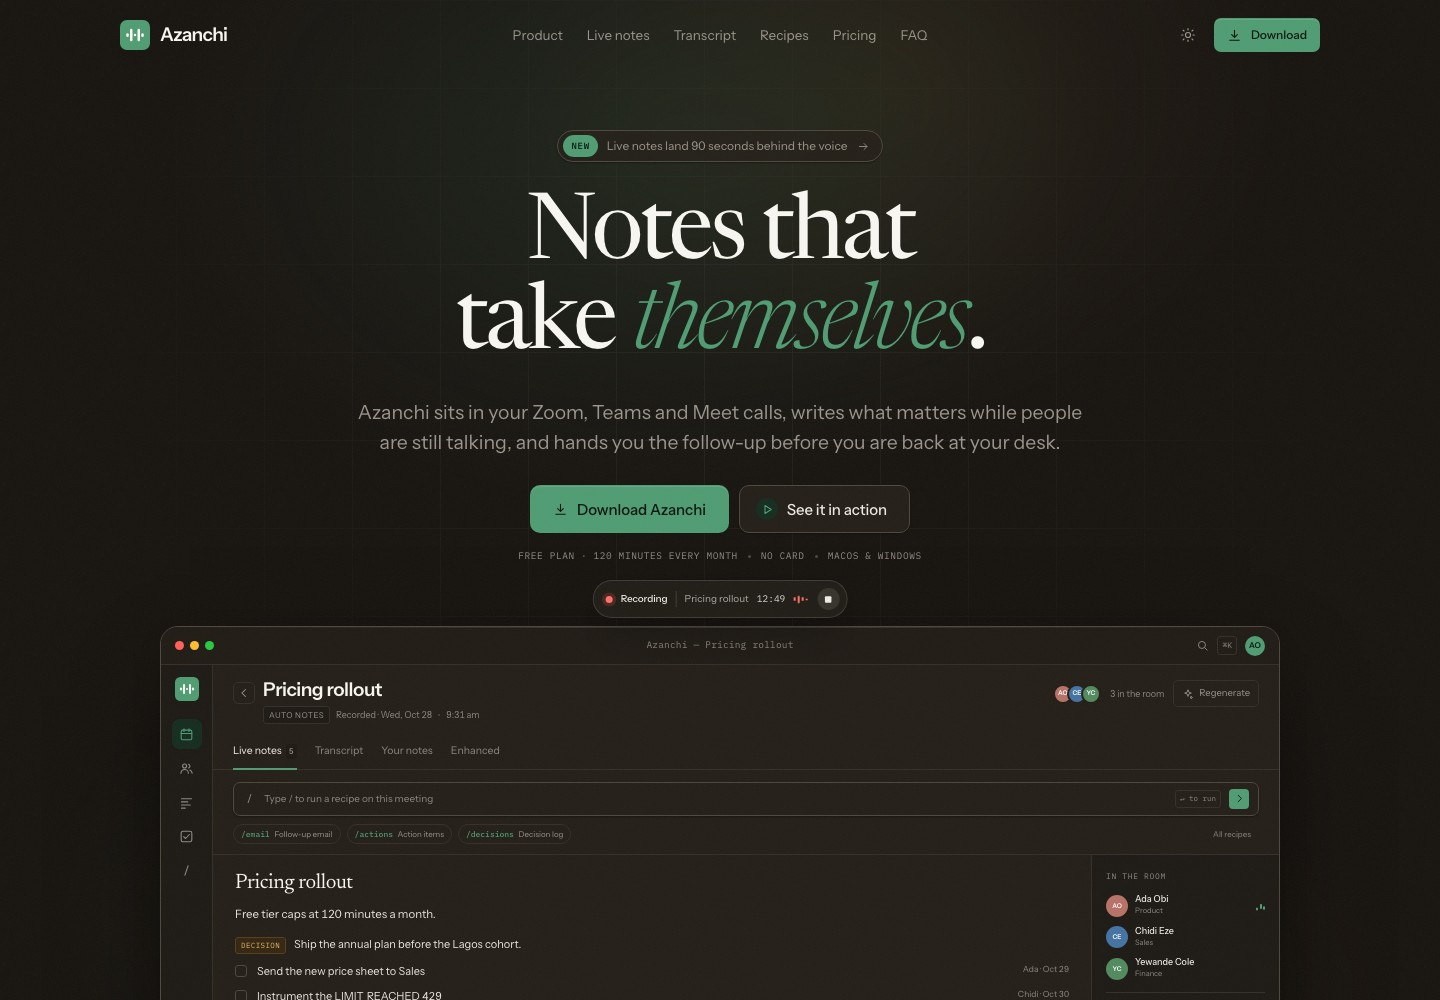
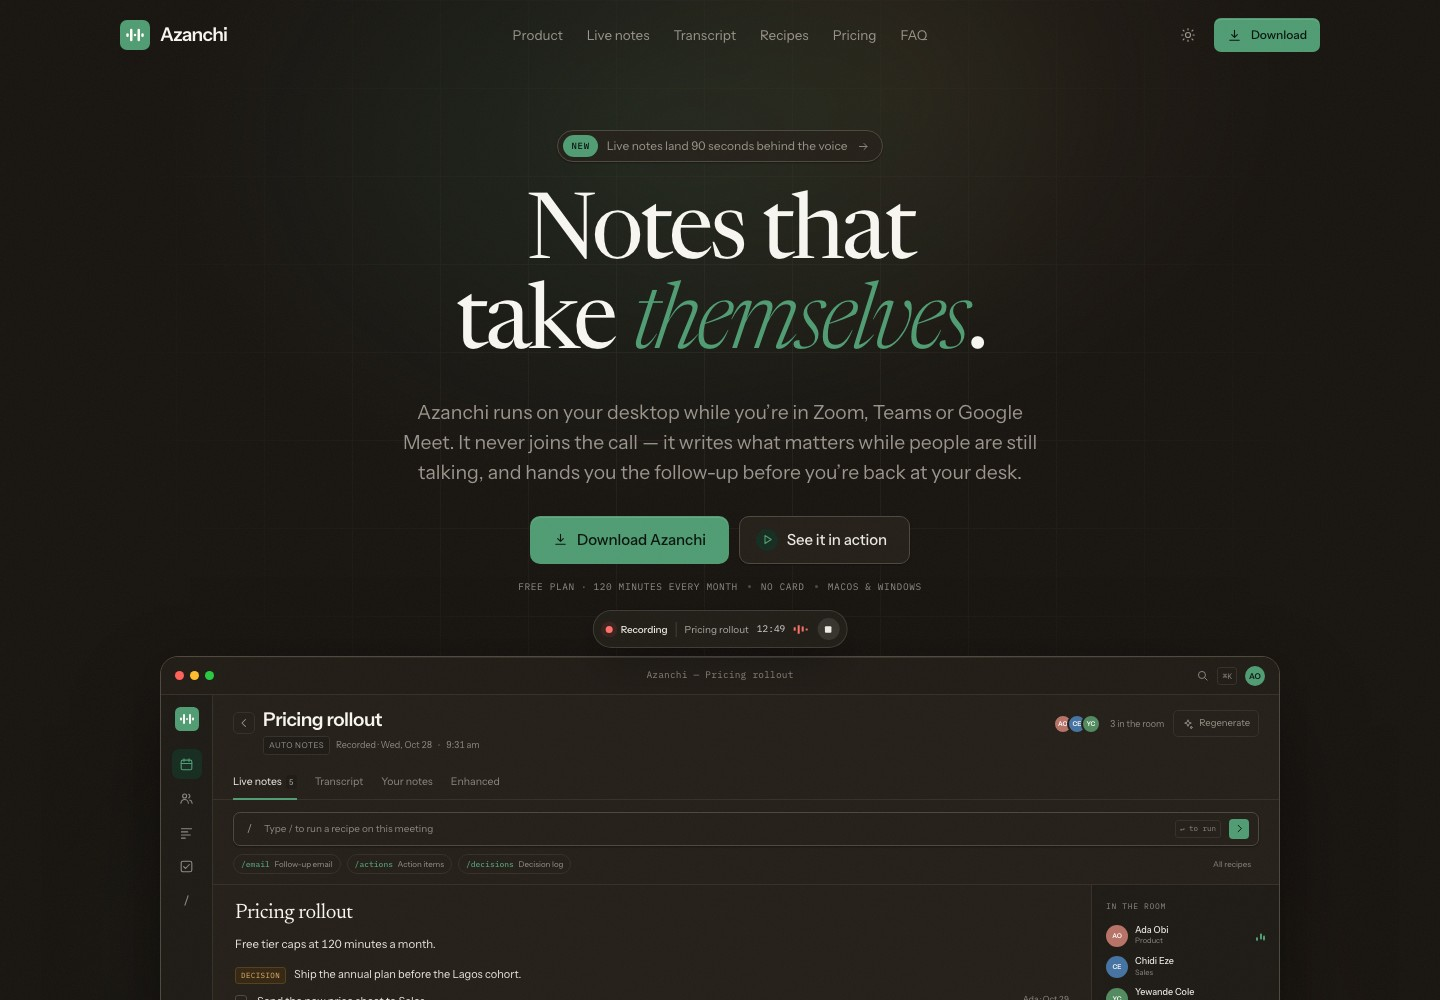
Clarify Azanchi runs alongside calls

diff --git a/src/components/Hero.tsx b/src/components/Hero.tsx
@@ -38,8 +38,9 @@ export function Hero() {
         </h1>
 
         <p className="hero__lead balance" data-reveal style={{ "--reveal-delay": "140ms" } as CSSProperties}>
-          Azanchi sits in your Zoom, Teams and Meet calls, writes what matters while people are still
-          talking, and hands you the follow-up before you are back at your desk.
+          Azanchi runs on your desktop while you’re in Zoom, Teams or Google Meet. It never joins the
+          call — it writes what matters while people are still talking, and hands you the follow-up
+          before you’re back at your desk.
         </p>
 
         <div className="hero__cta" data-reveal style={{ "--reveal-delay": "210ms" } as CSSProperties}>
@@ -82,7 +83,7 @@ export function Hero() {
       </div>
 
       <div className="container hero__meets" data-reveal>
-        <span className="eyebrow eyebrow--plain">Meets you in</span>
+        <span className="eyebrow eyebrow--plain">Works alongside</span>
         <div className="meets">
           {MEETS.map(({ icon: Icon, label }) => (
             <span className="meets__item" key={label}>

diff --git a/src/components/DownloadSection.tsx b/src/components/DownloadSection.tsx
@@ -87,8 +87,8 @@ export function DownloadSection() {
             The work is already done.
           </h2>
           <p>
-            Azanchi runs on your Mac or Windows machine, inside the calls you already have. Pick your
-            build below — free plan, 120 minutes a month, no card.
+            Azanchi runs on your Mac or Windows machine while you’re in the calls you already have.
+            Pick your build below — free plan, 120 minutes a month, no card.
           </p>
           <div className="download__points">
             <span>

diff --git a/src/components/HowItWorks.tsx b/src/components/HowItWorks.tsx
@@ -85,7 +85,7 @@ const STEPS = [
     n: "01",
     label: "Download",
     title: "The app, then four seconds to sign in.",
-    body: "Pick the Mac or Windows build. Google sign-in, no password, no model to download, no bot to invite. Azanchi is in the room before the small talk ends.",
+    body: "Pick the Mac or Windows build. Google sign-in, no password, no model to download, no bot to invite. Azanchi is ready before the small talk ends.",
     art: <StepArtOne />,
   },
   {
